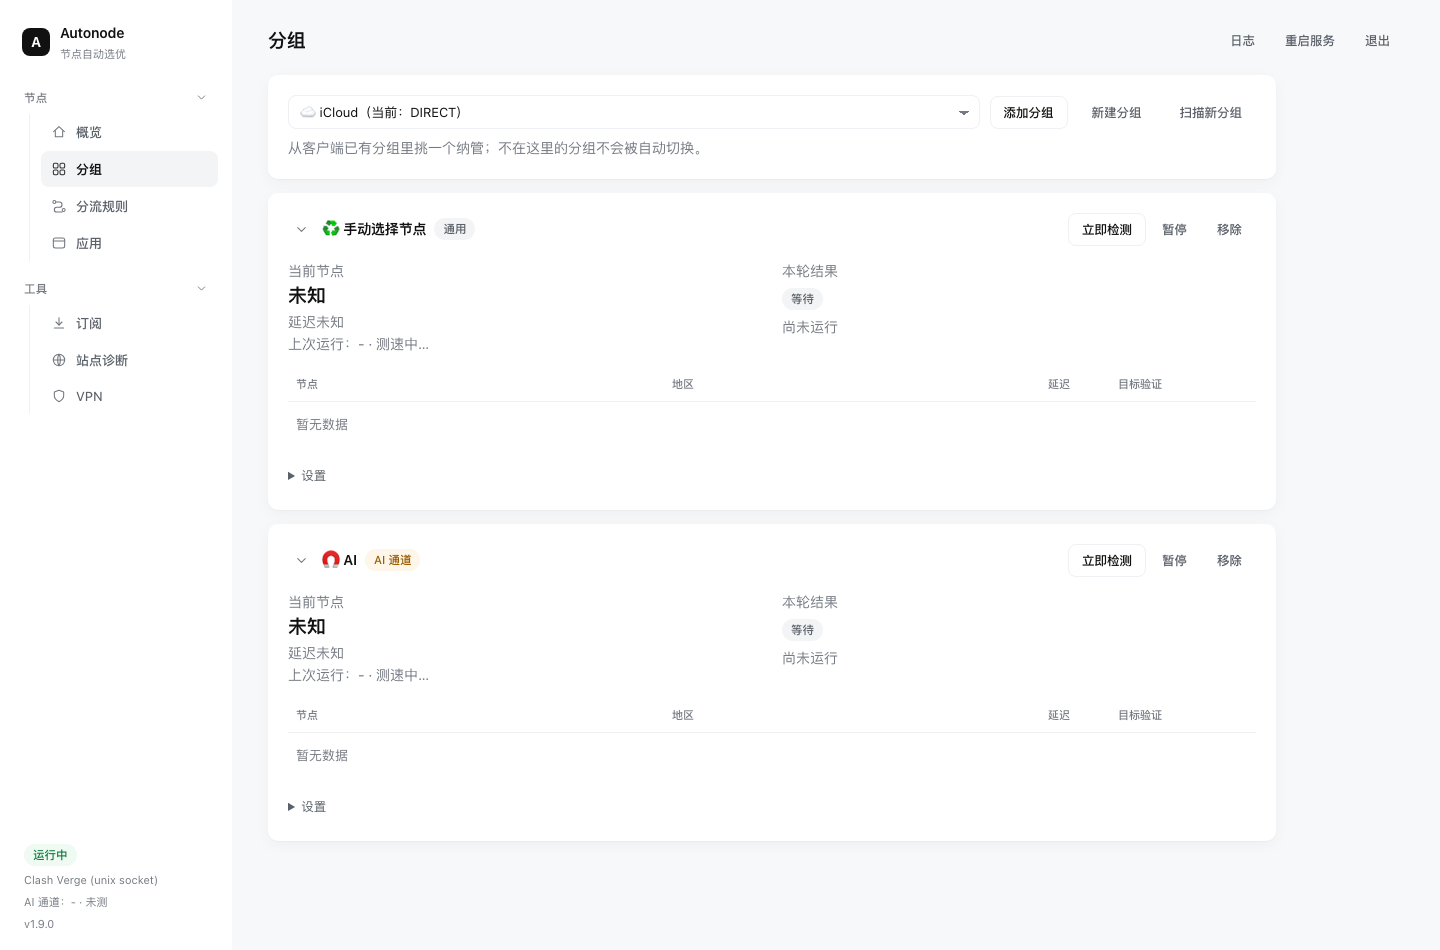
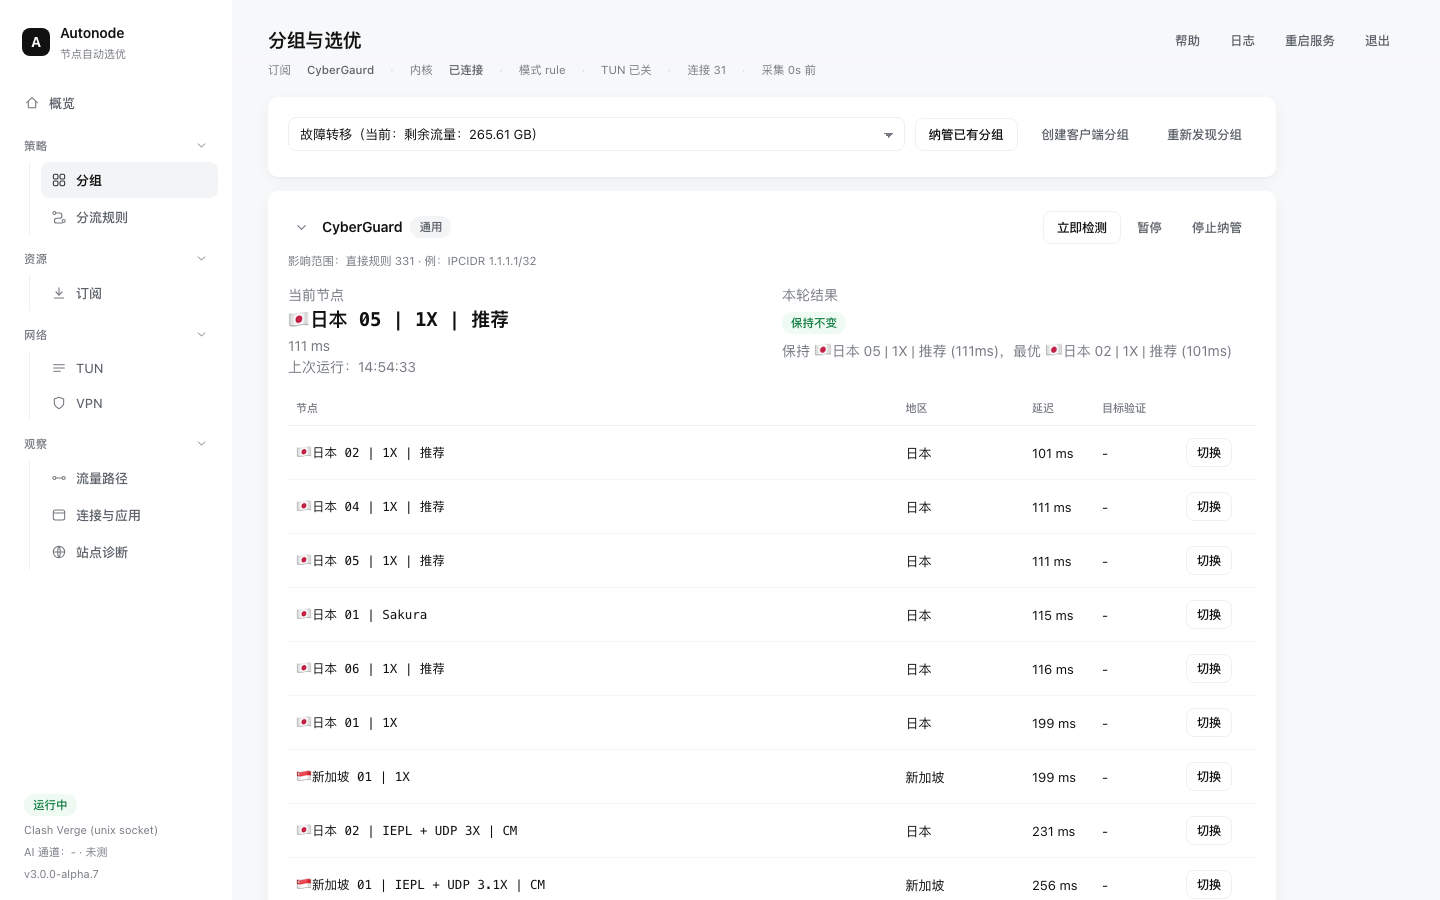
feat(3.0-alpha): 绑定失效检测与重新绑定；防止同一内核分组被重复管理

diff --git a/autonode.py b/autonode.py
@@ -1945,7 +1945,15 @@ def run_group(engine, g, dry_run=False, runner=None):
         return res
 
     try:
-        current, current_ms, candidates, flag, total_nodes, stats = evaluate(ctx, g)
+        try:
+            current, current_ms, candidates, flag, total_nodes, stats = evaluate(ctx, g)
+        except Exception as exc:
+            msg = str(exc)
+            if "404" in msg or "Resource not found" in msg:
+                msg = "绑定分组「%s」在当前订阅中不存在，请在分组卡片点「重新绑定」" % g["group"]
+            res.update(action="skip", message=msg)
+            log("[%s] %s" % (g["label"], msg))
+            return res
     except Exception as exc:
         res.update(action="error", message=str(exc))
         log("[%s] 测速失败 %s" % (g["label"], exc))
@@ -3949,12 +3957,18 @@ function groupCard(g){
     + '<button class="iconbtn" data-act="collapse" title="收起/展开">'
     + '<svg viewBox="0 0 24 24"><path d="m6 9 6 6 6-6"/></svg></button>'
     + '<span class="gname">'+esc(g.label)+'</span> <span class="badge" data-role="role" style="display:none"></span>'
+    + (g.invalid ? ' <span class="badge bad">绑定失效</span>' : '')
     + ' <span class="gsum" data-role="summary"></span></div>'
     + '<div class="row"><button data-act="run">立即检测</button>'
     + '<button data-act="toggle" class="ghost">暂停</button>'
     + '<button data-act="remove" class="ghost">停止纳管</button></div></div>'
     + '<div class="gbody">'
     + '<div class="muted" data-role="scope" style="margin-top:8px;font-size:11.5px"></div>'
+    + (g.invalid
+        ? '<div class="row" style="margin-top:10px;gap:8px"><span class="badge bad">当前订阅没有这个分组</span>'
+          + '<select data-role="rebind-sel" style="width:210px"></select>'
+          + '<button data-act="rebind">重新绑定</button></div>'
+        : '')
     + '<div class="grid" style="margin-top:14px">'
     + '<div><div class="muted">当前节点</div><div class="big mono" data-role="current">-</div>'
     + '<div class="muted" data-role="meta">-</div><div class="muted" data-role="last">-</div></div>'
@@ -4000,6 +4014,18 @@ function applyCollapse(card, gid){
   if(!card) return;
   var map = collapsedMap();
   card.classList.toggle('collapsed', !!map[gid]);
+}
+
+function loadRebindOptions(card){
+  var sel = card.querySelector('[data-role="rebind-sel"]');
+  if(!sel) return;
+  get('/api/groups/available').then(function(d){
+    if(!d || !d.ok) return;
+    sel.innerHTML = (d.groups || []).map(function(g){
+      var q = String(g.name).replace(/&/g,'&amp;').replace(/"/g,'&quot;');
+      return '<option value="' + q + '">' + esc(g.name) + ' (' + esc(g.type) + ')</option>';
+    }).join('');
+  }).catch(function(){});
 }
 
 function loadGroupScope(card, gid){
@@ -4099,6 +4125,7 @@ function renderGroups(s){
       applyCollapse(card, g.id);
       loadRegionStat(card, g.id);
       loadGroupScope(card, g.id);
+      if(g.invalid) loadRebindOptions(card);
     });
   }
 }
@@ -4154,6 +4181,17 @@ document.addEventListener('click', function(e){
     map[gid] = !map[gid];
     saveCollapsed(map);
     card.classList.toggle('collapsed', !!map[gid]);
+  }
+  else if(act==='rebind'){
+    var sel2 = card.querySelector('[data-role="rebind-sel"]');
+    var ng = sel2 ? sel2.value : '';
+    if(!ng){ notify('先选一个目标分组'); return; }
+    post('/api/groups/bind', {id: gid, group: ng, migrateRoutes: true}).then(function(r){
+      if(r && r.ok){
+        notify('已绑定到 ' + ng + (r.routesMigrated ? '，迁移 ' + r.routesMigrated + ' 条规则' : ''));
+        refresh();
+      } else notify('绑定失败：' + ((r && r.error) || ''));
+    });
   }
   else if(act==='allregions'){
     card.querySelectorAll('[data-role="regions"] input').forEach(function(i){ i.checked = true; });
@@ -4579,13 +4617,22 @@ class Handler(BaseHTTPRequestHandler):
             return self._send(200, json.dumps(body, ensure_ascii=False))
 
         if path == "/api/status":
+            try:
+                _px = api(controller_ctx(eng.cfg), "GET", "/proxies", timeout=6).get("proxies", {})
+            except Exception:
+                _px = {}
+            try:
+                _px = api(controller_ctx(eng.cfg), "GET", "/proxies", timeout=6).get("proxies", {})
+            except Exception:
+                _px = {}
             groups = []
             for gid, runner in eng.runners.items():
                 snap = runner.snapshot()
                 snap["id"] = gid
                 snap["label"] = runner.cfg.get("label", gid)
                 groups.append({"id": gid, "label": runner.cfg.get("label", gid),
-                               "status": snap, "config": runner.cfg})
+                               "status": snap, "config": runner.cfg,
+                               "invalid": bool(_px) and runner.cfg["group"] not in _px})
             ctl = dict(eng.controller or {})
             ok = controller_alive(eng.cfg)
             prev = getattr(eng, "_ctl_ok", None)
@@ -4954,6 +5001,52 @@ class Handler(BaseHTTPRequestHandler):
                 if gid in (None, "", rid):
                     runner.run(block=False)
             return self._send(200, json.dumps({"ok": True}))
+        if path == "/api/groups/bind":
+            gid = payload.get("id")
+            new_group = str(payload.get("group") or "").strip()
+            migrate = bool(payload.get("migrateRoutes"))
+            runner = self.engine.runners.get(gid)
+            if runner is None:
+                return self._send(404, json.dumps({"ok": False, "error": "分组不存在"},
+                                                  ensure_ascii=False))
+            if not new_group:
+                return self._send(400, json.dumps({"ok": False, "error": "缺少目标分组"},
+                                                  ensure_ascii=False))
+            ctx = controller_ctx(self.engine.cfg)
+            try:
+                px = api(ctx, "GET", "/proxies", timeout=8).get("proxies", {})
+            except Exception as exc:
+                return self._send(200, json.dumps({"ok": False, "error": str(exc)},
+                                                  ensure_ascii=False))
+            info = px.get(new_group)
+            if not info or info.get("type") not in ("Selector", "URLTest", "Fallback"):
+                return self._send(422, json.dumps({"ok": False, "error": "目标不是可管理分组"},
+                                                  ensure_ascii=False))
+            old_group = runner.cfg.get("group")
+            cfg = json.loads(json.dumps(self.engine.cfg))
+            for g in cfg.get("groups") or []:
+                if g.get("id") == gid:
+                    if g.get("label") == old_group:
+                        g["label"] = new_group
+                    g["group"] = new_group
+            migrated = 0
+            if migrate and old_group and old_group != new_group:
+                for r in cfg.get("routes") or []:
+                    if r.get("target") == old_group:
+                        r["target"] = new_group
+                        migrated += 1
+            self.engine.cfg = cfg
+            save_config(cfg)
+            runner.cfg["group"] = new_group
+            if runner.cfg.get("label") == old_group:
+                runner.cfg["label"] = new_group
+            runner.last_detail = {"action": "bound", "message": "已绑定到 " + new_group}
+            self.engine.bump_epoch("group-rebind")
+            record_op("group", "rebound", {"id": gid, "from": old_group,
+                                           "to": new_group, "routes": migrated})
+            return self._send(200, json.dumps({"ok": True, "group": new_group,
+                                               "routesMigrated": migrated},
+                                              ensure_ascii=False))
         if path == "/api/v2/config":
             expected = payload.get("expectedRevision")
             patch = payload.get("patch") or {}
@@ -4992,6 +5085,17 @@ class Handler(BaseHTTPRequestHandler):
         if path == "/api/config":
             gid = payload.get("id")
             patch = payload.get("patch") or {}
+            if isinstance(patch, dict) and patch.get("enabled"):
+                for g in self.engine.cfg.get("groups") or []:
+                    if g.get("id") == gid:
+                        continue
+                    if g.get("enabled") and g.get("group") == next(
+                            (x.get("group") for x in self.engine.cfg["groups"]
+                             if x.get("id") == gid), None):
+                        return self._send(409, json.dumps({
+                            "ok": False,
+                            "error": "「%s」已由另一个分组管理，不能同时启用" % g.get("group")},
+                            ensure_ascii=False))
             updated = self.engine.update_group(gid, patch)
             return self._send(200, json.dumps({"ok": bool(updated), "config": updated}, ensure_ascii=False))
         return self._send(404, json.dumps({"error": "not found"}))
